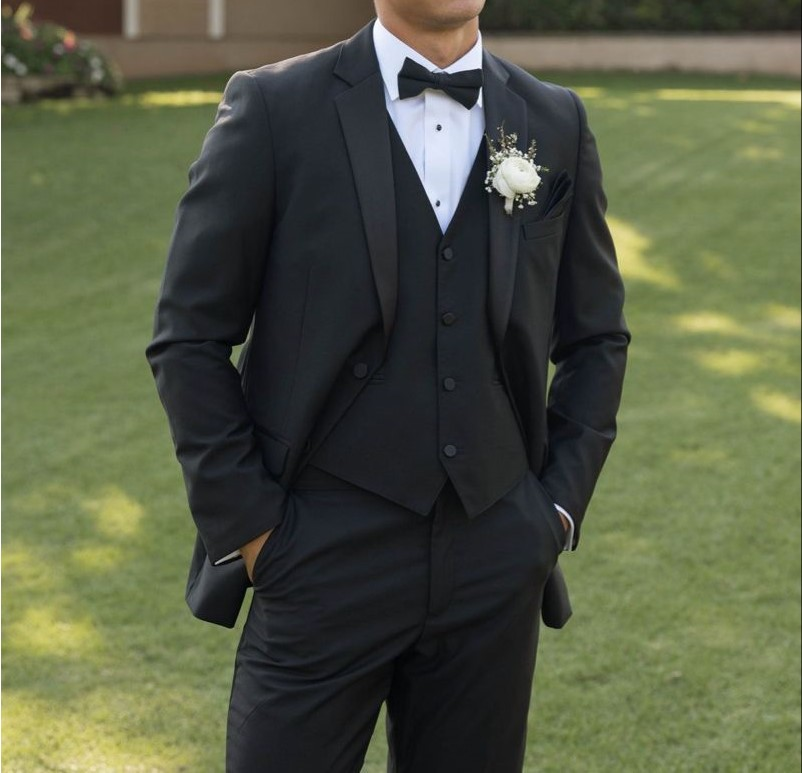
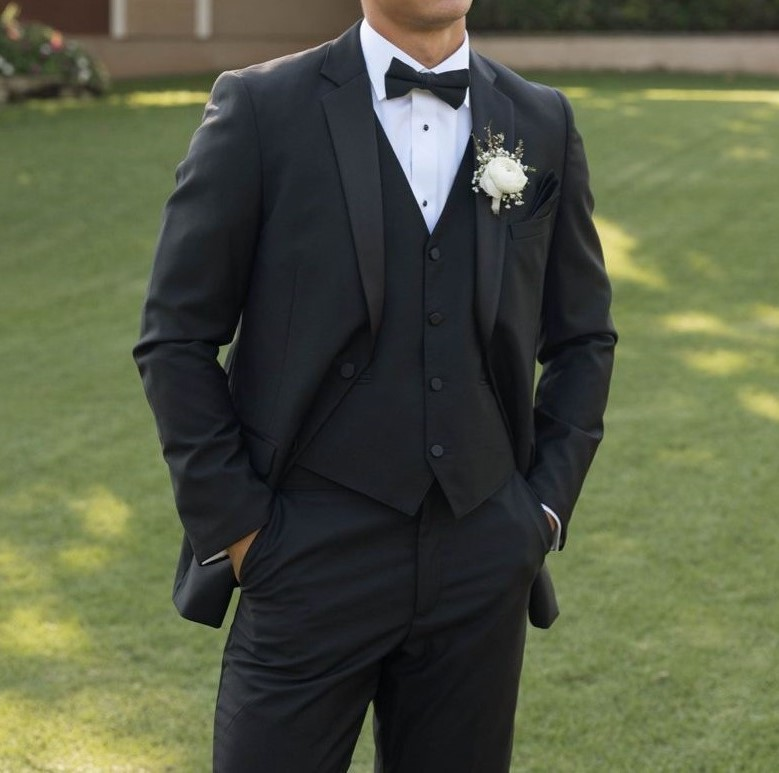
Atoalizando mudanças ternos

diff --git a/front-end/Ternos.html b/front-end/Ternos.html
@@ -88,12 +88,14 @@
 <div class="card">
 
   <div class="imagem2">
-      <img src="" alt="Terno">
+      <img src="./Assets/IMG/SLIM-FIT-TERNITO.jpeg" alt="Terno">
   </div>
+  <BR>
   <div class="descricao2">
 
        <h3>SLIM FIT </h3>
-  <p> </p>
+  <p><b>Caimento: </b> Ajustado ao corpo, contém um corte moderno e elegante.</p>
+  <p><b>Versatilidade: </b> Moderno, combinando com diferentes estilos de casamento. </p>
  
 </div>
 </div>
@@ -102,12 +104,14 @@
 <div class="card">
 
   <div class="imagem3">
-      <img src="" alt="Terno">
+      <img src="./Assets/IMG/ITALIANO-TERNITO.jpeg" alt="Terno">
   </div>
+  <BR>
   <div class="descricao3">
 
        <h3>ITALIANO </h3>
-  <p> </p>
+  <p><b>Caimento: </b> Corte aderente e elegante, com um toque de sofisticação.</p>
+  <p><b>Versatilidade: </b> Clássico, sendo ideal para diferentes estilos de casamento. </p>
  
 </div>
 </div>
@@ -119,12 +123,15 @@
 <div class="card">
 
   <div class="imagem4">
-      <img src="" alt="Terno">
+      <img src="./Assets/IMG/FRAQUE-TERNITO.jpeg" alt="Terno">
   </div>
+  <BR>
   <div class="descricao4">
 
        <h3>FRAQUE</h3>
-  <p></p>
+
+  <p><b>Caimento: </b> Corte elegante e estruturado, garante um visual refinado e único.</p>
+  <p><b>Versatilidade: </b> Sofisticado e tradicional, ideal para casamentos formais.</p>
  
 </div>
 </div>
@@ -134,10 +141,12 @@
   <div class="imagem5">
       <img src="" alt="Terno">
   </div>
+  <BR>
   <div class="descricao5">
 
        <h3>MEIO FRAQUE</h3>
-  <p> </p>
+  <p><b>Caimento: </b> Quse como o fraque, é elegante e estruturado, com visual sofisticado.</p>
+  <p><b>Versatilidade: </b> Tradicional, sendo ideal para casamentos formais. </p>
  
 </div>
 </div>
@@ -148,10 +157,12 @@
   <div class="imagem6">
       <img src="" alt="Terno">
   </div>
+  <BR>
   <div class="descricao6">
 
        <h3>SMOKING</h3>
-  <p> </p>
+  <p><b>Caimento: </b> Corte elegante e alinhado, com aparência sofisticada.</p>
+  <p><b>Versatilidade: </b> Clássico e refinado, ideal para casamentos formais e noturnos. </p>
  
 </div>
 </div>

diff --git a/front-end/CSS/Ternos.css b/front-end/CSS/Ternos.css
@@ -223,7 +223,7 @@ justify-content: center;
 
 .imagem2 img{
   width: 350px;
-  height: 260px;
+  height: 290px;
   border-radius: 9px 6px 0 0;
 }
 
@@ -247,7 +247,7 @@ justify-content: center;
 
 .imagem3 img{
   width: 350px;
-  height: 260px;
+  height: 290px;
   border-radius: 9px 6px 0 0;
 }
 
@@ -276,7 +276,7 @@ justify-content: center;
 }
 .imagem4 img{
   width: 350px;
-  height: 260px;
+  height: 290px;
   border-radius: 9px 6px 0 0;
 }
 
@@ -300,7 +300,7 @@ justify-content: center;
 
 .imagem5 img{
   width: 350px;
-  height: 260px;
+  height: 290px;
   border-radius: 9px 6px 0 0;
 }
 
@@ -324,7 +324,7 @@ justify-content: center;
 
 .imagem6 img{
   width: 350px;
-  height: 260px;
+  height: 290px;
   border-radius: 9px 6px 0 0;
 }
 
